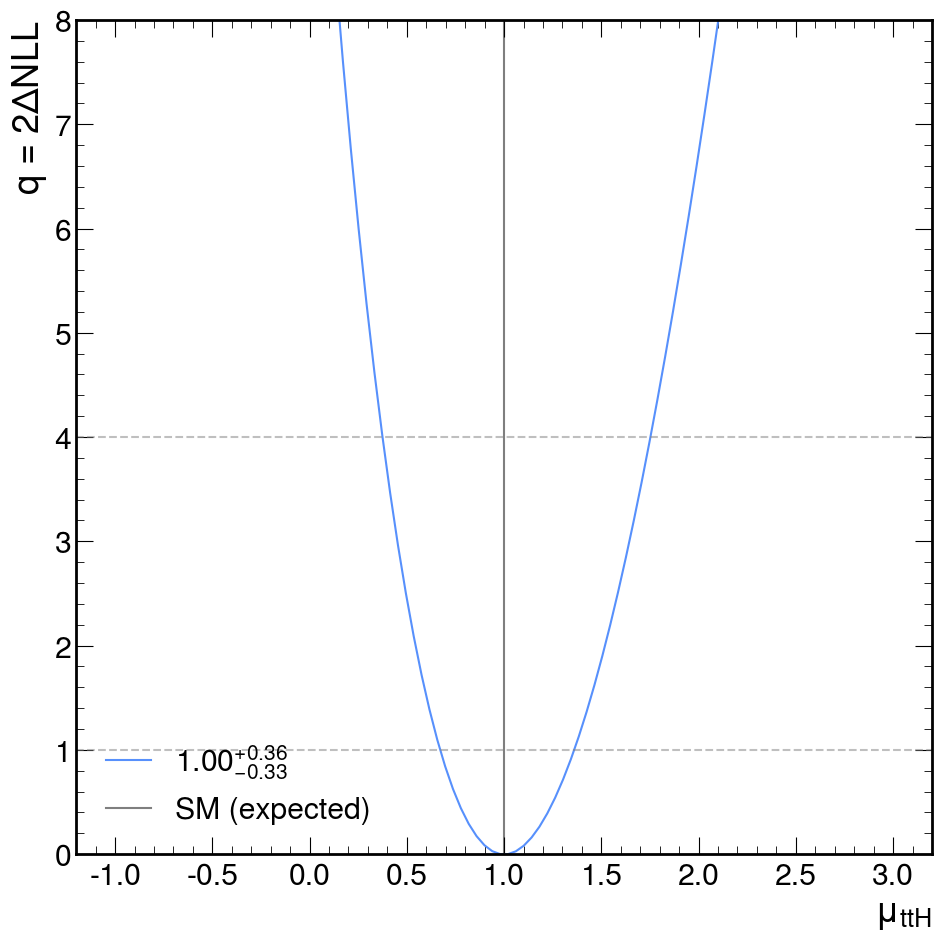
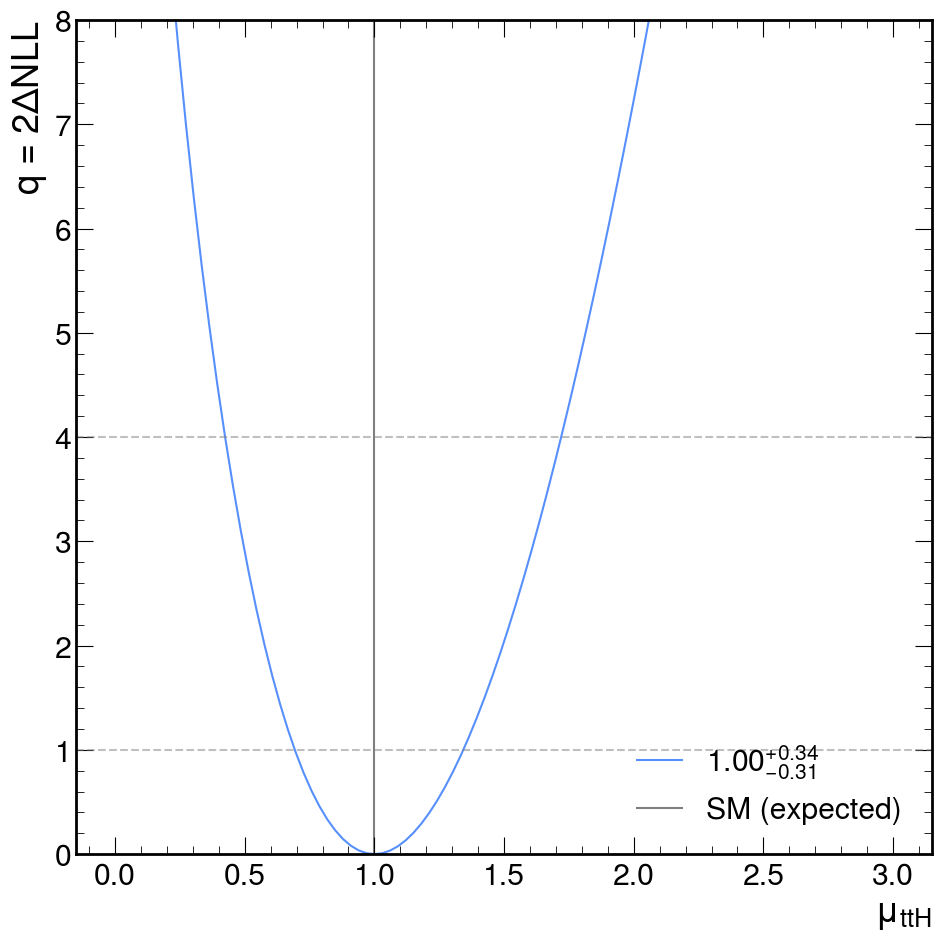
Fixed errors where nll couldn't be calculated and error with 2 best fit values.

diff --git a/utils.py b/utils.py
@@ -44,8 +44,8 @@ def add_val_label(val):
     return "$%.2f^{+%.2f}_{-%.2f}$"%(val[0],abs(val[1]),abs(val[2]))
 
 def find_crossings(graph, yval, spline_type="cubic", spline_points=1000, remin=True, return_all_intervals=False):
-    #print("graph 1: NLL vals = ", graph[1])
-    
+    print("graph 1: NLL vals = ", graph[1])
+    print("when 0 ", graph[1]==0, graph[0], len(graph[0]), len(graph[1]))
     # Build spline
     f = interp1d(graph[0],graph[1],kind=spline_type)
     x_spline = np.linspace(graph[0].min(),graph[0].max(),spline_points)
@@ -69,7 +69,10 @@ def find_crossings(graph, yval, spline_type="cubic", spline_points=1000, remin=T
 
     # Extract bestfit
     bestfit = graph[0][graph[1]==0]
-
+    
+    #NO CLUE WHY BESTFIT HAS 2 VALUES SO ONLY TAKING THE FIRST ONE.
+    bestfit=bestfit[0]
+    #print("Bestfit", bestfit)
     crossings, intervals = [], []
     current = None
 

diff --git a/simple_stat_analysis.py b/simple_stat_analysis.py
@@ -149,7 +149,7 @@ for cat in cats_unique:
 
 # Calculate NLL as a function of ttH signal strength (assuming fixed bkg and ggH yields)
 NLL_vals = []
-mu_vals = np.linspace(-1,3,100)
+mu_vals = np.linspace(0,3,100)
 for mu in mu_vals:
     NLL_vals.append(calc_NLL(hists, mu))
     
